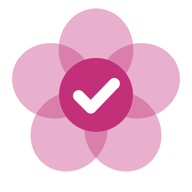
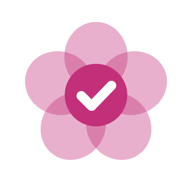
Home-Bildschirm-Symbol in mittlerer Größe

diff --git a/index.html b/index.html
@@ -12,8 +12,8 @@
 <meta name="theme-color" content="#F4F6F8" media="(prefers-color-scheme: light)">
 <meta name="theme-color" content="#0C131A" media="(prefers-color-scheme: dark)">
 <link rel="manifest" href="manifest.webmanifest">
-<link rel="apple-touch-icon" href="apple-touch-icon.png?v=4">
-<link rel="icon" type="image/png" sizes="192x192" href="icon-192.png?v=4">
+<link rel="apple-touch-icon" href="apple-touch-icon.png?v=5">
+<link rel="icon" type="image/png" sizes="192x192" href="icon-192.png?v=5">
 <link rel="preconnect" href="https://fonts.googleapis.com">
 <link rel="preconnect" href="https://fonts.gstatic.com" crossorigin>
 <link rel="stylesheet" href="https://fonts.googleapis.com/css2?family=Sora:wght@600;700&family=Manrope:wght@400;500;600;700&display=swap">

diff --git a/sw.js b/sw.js
@@ -1,13 +1,13 @@
 // Bloom offline cache. Network first so new versions arrive right away;
 // the cached copy is used when there is no connection.
-const CACHE = "bloom-v6";
+const CACHE = "bloom-v7";
 const ASSETS = [
   "./",
   "./index.html",
   "./manifest.webmanifest",
-  "./apple-touch-icon.png?v=4",
-  "./icon-192.png?v=4",
-  "./icon-512.png?v=4",
+  "./apple-touch-icon.png?v=5",
+  "./icon-192.png?v=5",
+  "./icon-512.png?v=5",
 ];
 
 self.addEventListener("install", (e) => {
